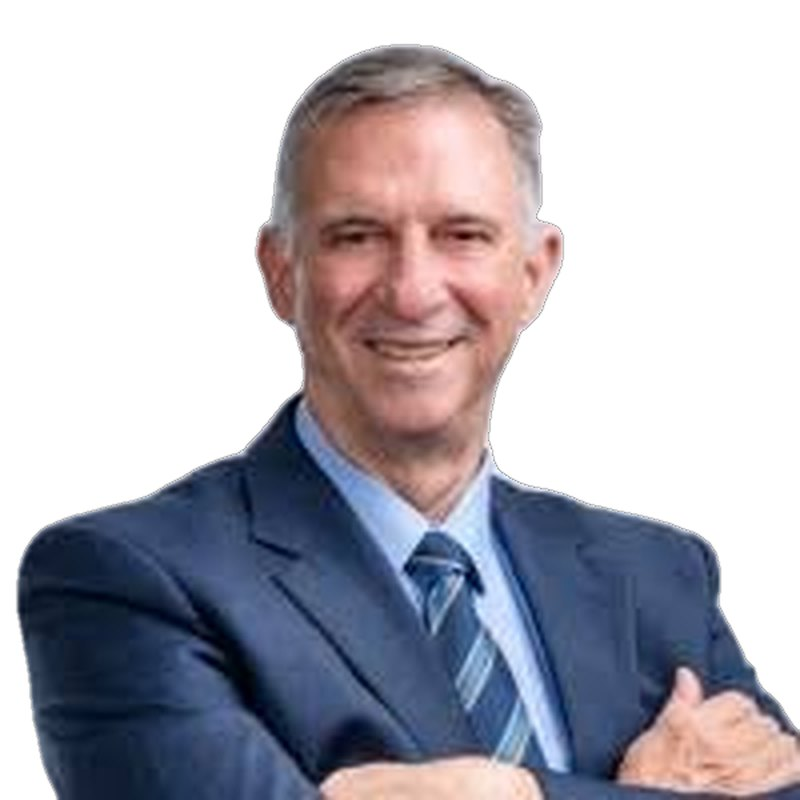
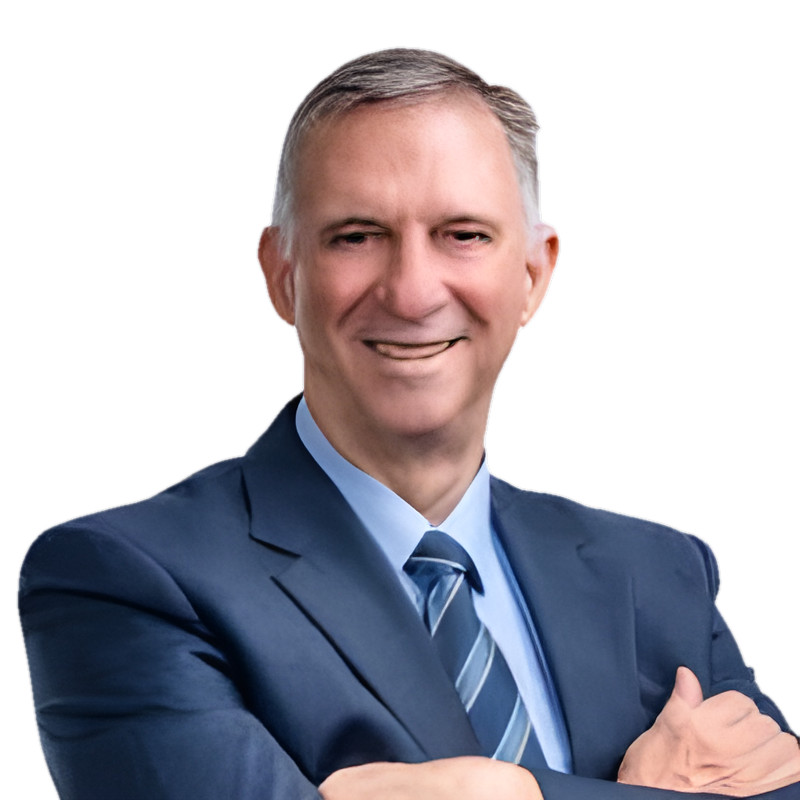
Sharper team photos + always load the latest styles (#2)
* Version CSS/JS links so browsers load fresh styles after each update

Claude-Session: https://claude.ai/code/session_013uZfmSQoX4wPru28623p3v

* Sharper team portraits: AI upscaling for small originals, cleaner edges, cache-busted image links

Claude-Session: https://claude.ai/code/session_013uZfmSQoX4wPru28623p3v

---------

diff --git a/static/assets/css/site.css b/static/assets/css/site.css
@@ -23,6 +23,7 @@
 html { scroll-behavior: smooth; -webkit-text-size-adjust: 100%; }
 body { margin: 0; font-family: var(--sans); font-size: 18px; line-height: 1.65; color: var(--ink); background: var(--cloud); }
 img, svg { max-width: 100%; display: block; }
+img { height: auto; }
 a { color: var(--teal); text-underline-offset: 3px; }
 a:hover { color: var(--teal-deep); }
 h1, h2, h3, h4 { color: var(--ink); margin: 0 0 .5em; }

diff --git a/src/common.py b/src/common.py
@@ -1,4 +1,4 @@
-import json, math, os, html
+import json, math, os, html, hashlib
 
 SITE = "https://cecai.ca"
 OUT = os.environ.get("CECAI_OUT", os.path.join(os.path.dirname(os.path.abspath(__file__)), "..", "_site"))
@@ -60,6 +60,11 @@ def tides(width=900, height=640, lines=14, seed=0.0, stroke="#1F5C63", accent="#
     return f'<svg class="{cls}" viewBox="0 0 {width} {height}" preserveAspectRatio="xMidYMid slice" aria-hidden="true" focusable="false">{"".join(paths)}</svg>'
 
 
+def _ver(rel):
+    p = os.path.join(os.path.dirname(os.path.abspath(__file__)), "..", "static", rel)
+    return hashlib.md5(open(p, "rb").read()).hexdigest()[:8]
+
+
 def head(title, desc, path, root, schema=None, og_type="website"):
     canon = f"{SITE}/{path}" if path != "index.html" else f"{SITE}/"
     sch = ""
@@ -88,7 +93,7 @@ def head(title, desc, path, root, schema=None, og_type="website"):
 <link rel="preconnect" href="https://fonts.googleapis.com">
 <link rel="preconnect" href="https://fonts.gstatic.com" crossorigin>
 <link href="https://fonts.googleapis.com/css2?family=Inter:wght@400;500;600&family=Lora:ital,wght@0,400;0,500;1,400&display=swap" rel="stylesheet">
-<link rel="stylesheet" href="{root}assets/css/site.css">
+<link rel="stylesheet" href="{root}assets/css/site.css?v={_ver("assets/css/site.css")}">
 {sch}</head>
 <body>
 <a class="skip" href="#main">Skip to content</a>
@@ -143,7 +148,7 @@ def footer(root):
     </div>
   </div>
 </footer>
-<script src="{root}assets/js/site.js" defer></script>
+<script src="{root}assets/js/site.js?v={_ver("assets/js/site.js")}" defer></script>
 </body>
 </html>
 """
@@ -250,7 +255,7 @@ def face(initials, root, tone="", style="", note=True, eager=False):
         name = TEAM_NAMES[initials]
         load = 'fetchpriority="high"' if eager else 'loading="lazy"'
         return (f'<div class="portrait has-photo" style="{style}"><picture>'
-                f'<source srcset="{root}assets/img/team/{slug}.webp" type="image/webp">'
-                f'<img src="{root}assets/img/team/{slug}.jpg" alt="{name}, CECai" width="800" height="800" {load} decoding="async"></picture></div>')
+                f'<source srcset="{root}assets/img/team/{slug}.webp?v={_ver('assets/img/team/'+slug+'.webp')}" type="image/webp">'
+                f'<img src="{root}assets/img/team/{slug}.jpg?v={_ver('assets/img/team/'+slug+'.jpg')}" alt="{name}, CECai" width="800" height="800" {load} decoding="async"></picture></div>')
     n = '<span class="note">Portrait to come</span>' if note else ""
     return f'<div class="portrait {tone}" style="{style}"><span class="mono">{initials}</span>{n}</div>'
